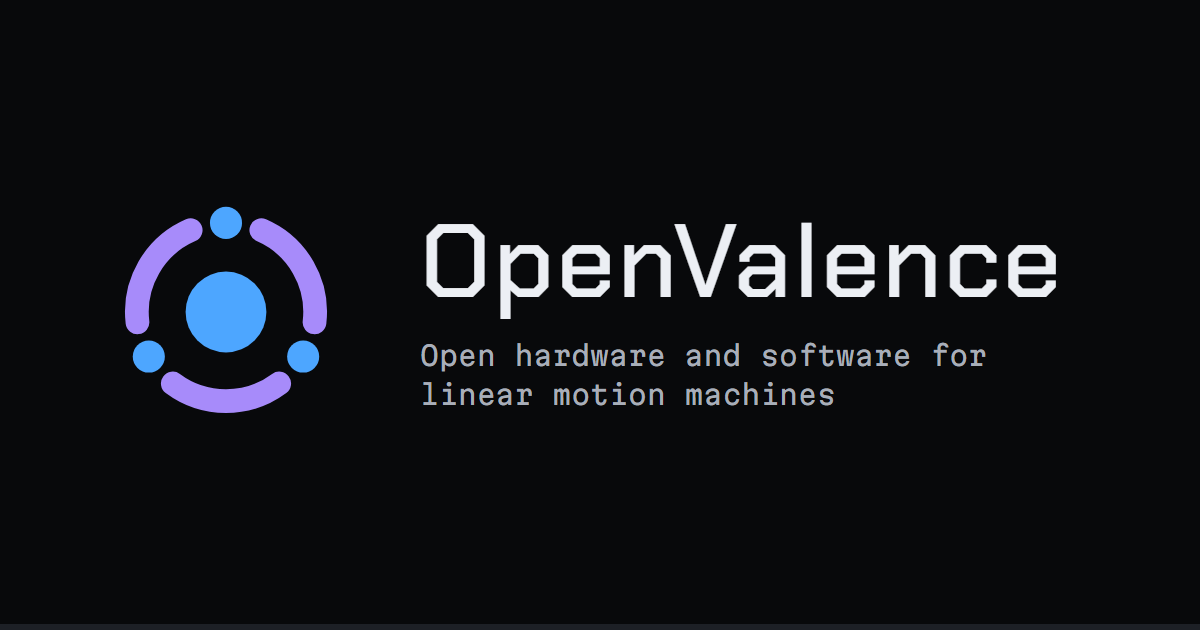
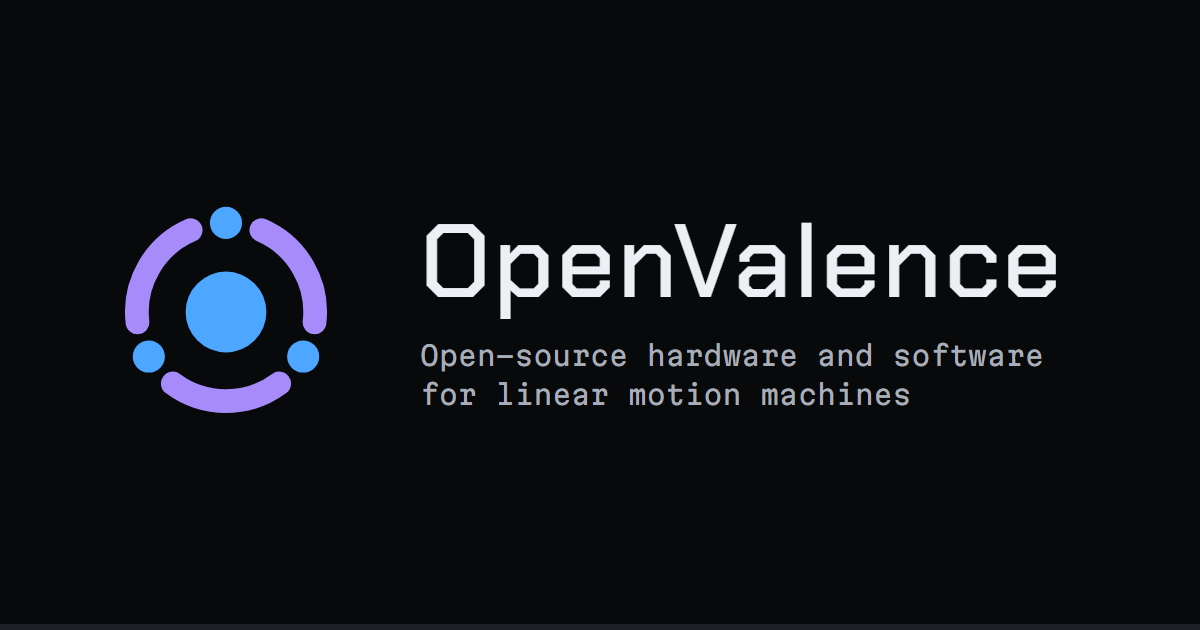
Homepage title and description from the operator; twitter title and description on every page; voice: no 'speaks', open-source not bare Open; social card says Open-source; styles for labeled docs screenshots

Changed region(s): [[0.3392, 0.5429, 0.8633, 0.6635]]

diff --git a/index.html b/index.html
@@ -3,13 +3,15 @@
 <head>
 <meta charset="utf-8">
 <meta name="viewport" content="width=device-width, initial-scale=1">
-<title>OpenValence: open hardware and software for linear motion machines</title>
-<meta name="description" content="Open hardware and software for linear motion machines: a motion controller board, its firmware, the Valence protocol and the Phosphor desktop client. The firmware runs a hub that holds the machine state, and every connected client stays in sync with it.">
+<title>Open Source Software And Hardware For Linear Motion Machines</title>
+<meta name="description" content="Open Source OSSM Flagship PCB, Phosphor app with Buttplug.io support and built in funscript player, Nucleus firmware with Kinetic² Motion.">
 <link rel="canonical" href="https://openvalence.org/">
 <meta property="og:type" content="website">
 <meta property="og:url" content="https://openvalence.org/">
-<meta property="og:title" content="OpenValence">
-<meta property="og:description" content="Open hardware and software for linear motion machines: a motion controller board, its firmware, the Valence protocol and the Phosphor desktop client. The firmware runs a hub that holds the machine state, and every connected client stays in sync with it.">
+<meta property="og:title" content="Open Source Software And Hardware For Linear Motion Machines">
+<meta property="og:description" content="Open Source OSSM Flagship PCB, Phosphor app with Buttplug.io support and built in funscript player, Nucleus firmware with Kinetic² Motion.">
+<meta name="twitter:title" content="Open Source Software And Hardware For Linear Motion Machines">
+<meta name="twitter:description" content="Open Source OSSM Flagship PCB, Phosphor app with Buttplug.io support and built in funscript player, Nucleus firmware with Kinetic² Motion.">
 <!-- chrome:head -->
 <meta name="theme-color" content="#08090B">
 <link rel="icon" href="/favicon.ico" sizes="32x32">
@@ -43,6 +45,7 @@
       "@type": "WebSite",
       "@id": "https://openvalence.org/#site",
       "name": "OpenValence",
+      "alternateName": ["Open Valence", "openvalence.org"],
       "url": "https://openvalence.org/",
       "inLanguage": "en-US",
       "publisher": { "@id": "https://openvalence.org/#org" }
@@ -75,7 +78,7 @@
 <main>
   <section class="opening">
     <p class="kicker">pre-release protocol · spec v1.0-draft</p>
-    <h1>Open hardware and software for linear motion machines</h1>
+    <h1>Open-source hardware and software for linear motion machines</h1>
     <p>For OSSM-style machines and anything else that moves along a rail. The firmware runs a hub that holds the machine's state. The desktop app, browser tabs, scripts and plugins connect to the hub as clients and stay in sync with it. The board, its firmware, the protocol and the client are published under <span class="nb">MIT</span>, <span class="nb">CC BY 4.0</span>, <span class="nb">Apache-2.0</span> and <span class="nb">CERN-OHL-S-2.0</span>.</p>
   </section>
 

diff --git a/phosphor/index.html b/phosphor/index.html
@@ -10,6 +10,8 @@
 <meta property="og:url" content="https://openvalence.org/phosphor/">
 <meta property="og:title" content="Phosphor: OpenValence">
 <meta property="og:description" content="Phosphor is the reference client for Valence machines. Build a dashboard from what your machine reports, add plugins, play funscripts and connect other apps.">
+<meta name="twitter:title" content="Phosphor: OpenValence">
+<meta name="twitter:description" content="Phosphor is the reference client for Valence machines. Build a dashboard from what your machine reports, add plugins, play funscripts and connect other apps.">
 <!-- chrome:head -->
 <meta name="theme-color" content="#08090B">
 <link rel="icon" href="/favicon.ico" sizes="32x32">
@@ -118,7 +120,7 @@
 
     <h3>Buttplug</h3>
     <!-- docs/BUTTPLUG.md lines 12, 32 (127.0.0.1, port 12345), 88-92 (defaults, no start on launch); docs/DESIGN.md §10.8 lines 1067-1085; privacy.html s-network -->
-    <p>The desktop and Android apps embed a Buttplug server, spec v0 to v4, that listens on 127.0.0.1 at port 12345 by default. Only programs on the same computer can reach it. Apps that speak Buttplug see your machine as one linear device and can drive it, and the toys it finds over Bluetooth, serial or HID each get their own module on the Dash. If an app stops or disconnects, the machine holds its last target; only the hub's E-Stop latches.</p>
+    <p>The desktop and Android apps embed a Buttplug server, spec v0 to v4, that listens on 127.0.0.1 at port 12345 by default. Only programs on the same computer can reach it. Apps with Buttplug.io support see your machine as one linear device and can drive it, and the toys it finds over Bluetooth, serial or HID each get their own module on the Dash. If an app stops or disconnects, the machine holds its last target; only the hub's E-Stop latches.</p>
     <p>Starting the server on launch is off by default. The Buttplug pane starts and stops it and shows connected apps, devices and a log. Toys as hub relationships is an open design question <span class="tag">WIP</span>.</p>
 
     <h3>Themes</h3>

diff --git a/hardware/index.html b/hardware/index.html
@@ -10,6 +10,8 @@
 <meta property="og:url" content="https://openvalence.org/hardware/">
 <meta property="og:title" content="Hardware: OpenValence">
 <meta property="og:description" content="The OSSM Flagship is a 58 x 58 mm open-source controller board: ESP32-P4 plus ESP32-C6, quadrature and RS485 to a servo drive. KiCad 10, still in design.">
+<meta name="twitter:title" content="Hardware: OpenValence">
+<meta name="twitter:description" content="The OSSM Flagship is a 58 x 58 mm open-source controller board: ESP32-P4 plus ESP32-C6, quadrature and RS485 to a servo drive. KiCad 10, still in design.">
 <!-- chrome:head -->
 <meta name="theme-color" content="#08090B">
 <link rel="icon" href="/favicon.ico" sizes="32x32">
@@ -100,7 +102,7 @@
   <section aria-labelledby="s-fit">
     <h2 id="s-fit" data-n="05">How it fits</h2>
     <!-- Hardware README.md; Nucleus docs/board-map.md -->
-    <p>The board is the physical end of the system. <a href="/nucleus/">Nucleus</a> is its firmware, and <a href="/Valence/">Valence</a> is the protocol its hub speaks. The <a href="/diagrams/">diagrams</a> show the connections, and <a href="/components/">Components</a> lists every part. The repo also reserves folders for cable drawings, enclosure parts and bench fixtures; they are empty so far.</p>
+    <p>The board is the physical end of the system. <a href="/nucleus/">Nucleus</a> is its firmware, and <a href="/Valence/">Valence</a> is the protocol its hub uses. The <a href="/diagrams/">diagrams</a> show the connections, and <a href="/components/">Components</a> lists every part. The repo also reserves folders for cable drawings, enclosure parts and bench fixtures; they are empty so far.</p>
     <p class="links"><a href="https://github.com/openvalence/Hardware">Repo</a> · <a href="https://github.com/openvalence/Hardware/blob/main/flagship/FEATURES.md">Features</a> · <a href="https://github.com/openvalence/Hardware/blob/main/flagship/SPEC.md">Decisions ledger</a> · <a href="/nucleus/">Nucleus</a> · <a href="/diagrams/">Diagrams</a></p>
   </section>
 </main>

diff --git a/demos/index.html b/demos/index.html
@@ -10,6 +10,8 @@
 <meta property="og:url" content="https://openvalence.org/demos/">
 <meta property="og:title" content="Demos: OpenValence">
 <meta property="og:description" content="Run the Kinetic motion planner in your browser, shape a funscript with Bézier handles, and watch Phosphor drive its built-in Virtual machine. No hardware needed.">
+<meta name="twitter:title" content="Demos: OpenValence">
+<meta name="twitter:description" content="Run the Kinetic motion planner in your browser, shape a funscript with Bézier handles, and watch Phosphor drive its built-in Virtual machine. No hardware needed.">
 <!-- chrome:head -->
 <meta name="theme-color" content="#08090B">
 <link rel="icon" href="/favicon.ico" sizes="32x32">
@@ -76,7 +78,7 @@
       <figcaption id="cap-virtual">Phosphor main 1775961 · connected to the built-in Virtual · Home, speed 55, Advanced pattern running · 1280 × 800, 18 s, recorded headless, no sound</figcaption>
     </figure>
     <!-- Phosphor README.md "Neutrino, the built-in machine (the hub firmware as wasm)"; src/model/integral/ -->
-    <p>The Virtual is the machine's firmware compiled to WebAssembly, running inside Phosphor. It speaks Valence like a real machine, so everything you see in the clip is the real protocol, the real catalog and the real planner, minus the motor.</p>
+    <p>The Virtual is the machine's firmware compiled to WebAssembly, running inside Phosphor. It uses the same Valence protocol as a real machine, so everything you see in the clip is the real protocol, the real catalog and the real planner, minus the motor.</p>
     <p>You get it with Phosphor: connect to "Virtual" in the machine list. Phosphor isn't released yet; see <a href="/downloads/">Downloads</a>.</p>
     <p>A version of this that runs on this website is WIP.</p>
   </section>

diff --git a/phosphor/docs/connecting/index.html b/phosphor/docs/connecting/index.html
@@ -10,6 +10,8 @@
 <meta property="og:url" content="https://openvalence.org/phosphor/docs/connecting/">
 <meta property="og:title" content="Connecting: OpenValence">
 <meta property="og:description" content="Connect Phosphor to a machine: discovery, Bluetooth setup, the watch, control and configure access tiers, the Pair button, and what E-Stop does.">
+<meta name="twitter:title" content="Connecting: OpenValence">
+<meta name="twitter:description" content="Connect Phosphor to a machine: discovery, Bluetooth setup, the watch, control and configure access tiers, the Pair button, and what E-Stop does.">
 <!-- chrome:head -->
 <meta name="theme-color" content="#08090B">
 <link rel="icon" href="/favicon.ico" sizes="32x32">
@@ -88,7 +90,7 @@
     <!-- Valence SPEC §12.2 (ratified), §11.1, §11.2; src/ui/PairingPane.svelte:306 (This session), 202-205 (Needs configure) -->
     <p>Every session has one of three tiers. The Pairing page shows yours under "This session".</p>
     <dl class="terms">
-      <div><dt>watch</dt><dd>Connect, browse and subscribe. Open by default.</dd></div>
+      <div><dt>watch</dt><dd>Connect, browse and subscribe. No pairing needed.</dd></div>
       <div><dt>control</dt><dd>Send intents and streams, and drive motion.</dd></div>
       <div><dt>configure</dt><dd>Change configuration and administer access: approve or deny pairing, revoke and evict.</dd></div>
     </dl>

diff --git a/phosphor/docs/funscript-player/index.html b/phosphor/docs/funscript-player/index.html
@@ -10,6 +10,8 @@
 <meta property="og:url" content="https://openvalence.org/phosphor/docs/funscript-player/">
 <meta property="og:title" content="Funscript player: OpenValence">
 <meta property="og:description" content="How Phosphor's funscript player works: load a video and script, set scale and offset, connect Stash, read the analyzer and play a script on the machine.">
+<meta name="twitter:title" content="Funscript player: OpenValence">
+<meta name="twitter:description" content="How Phosphor's funscript player works: load a video and script, set scale and offset, connect Stash, read the analyzer and play a script on the machine.">
 <!-- chrome:head -->
 <meta name="theme-color" content="#08090B">
 <link rel="icon" href="/favicon.ico" sizes="32x32">

diff --git a/phosphor/docs/troubleshooting/index.html b/phosphor/docs/troubleshooting/index.html
@@ -10,6 +10,8 @@
 <meta property="og:url" content="https://openvalence.org/phosphor/docs/troubleshooting/">
 <meta property="og:title" content="Troubleshooting: OpenValence">
 <meta property="og:description" content="What Phosphor's status and health lines mean and what to do about them: finding a machine, pairing, stutter and pauses, the log file, and platform notes.">
+<meta name="twitter:title" content="Troubleshooting: OpenValence">
+<meta name="twitter:description" content="What Phosphor's status and health lines mean and what to do about them: finding a machine, pairing, stutter and pauses, the log file, and platform notes.">
 <!-- chrome:head -->
 <meta name="theme-color" content="#08090B">
 <link rel="icon" href="/favicon.ico" sizes="32x32">

diff --git a/phosphor/docs/node-editor/index.html b/phosphor/docs/node-editor/index.html
@@ -10,6 +10,8 @@
 <meta property="og:url" content="https://openvalence.org/phosphor/docs/node-editor/">
 <meta property="og:title" content="Node editor: OpenValence">
 <meta property="og:description" content="Phosphor's node editor: wire machine settings and toys through math, logic and smoothing nodes, and see which chains run on the hub and which run in the app.">
+<meta name="twitter:title" content="Node editor: OpenValence">
+<meta name="twitter:description" content="Phosphor's node editor: wire machine settings and toys through math, logic and smoothing nodes, and see which chains run on the hub and which run in the app.">
 <!-- chrome:head -->
 <meta name="theme-color" content="#08090B">
 <link rel="icon" href="/favicon.ico" sizes="32x32">

diff --git a/phosphor/docs/getting-started/index.html b/phosphor/docs/getting-started/index.html
@@ -10,6 +10,8 @@
 <meta property="og:url" content="https://openvalence.org/phosphor/docs/getting-started/">
 <meta property="og:title" content="Getting started: OpenValence">
 <meta property="og:description" content="Install Phosphor, launch it, try the built-in Virtual machine with no hardware, then find a real machine. Includes a short tour of the main screens.">
+<meta name="twitter:title" content="Getting started: OpenValence">
+<meta name="twitter:description" content="Install Phosphor, launch it, try the built-in Virtual machine with no hardware, then find a real machine. Includes a short tour of the main screens.">
 <!-- chrome:head -->
 <meta name="theme-color" content="#08090B">
 <link rel="icon" href="/favicon.ico" sizes="32x32">

diff --git a/style.css b/style.css
@@ -361,3 +361,11 @@ h3 {
 main code { overflow-wrap: anywhere; }
 main pre { max-width: 100%; overflow-x: auto; padding: 10px 12px; background: var(--bg-sunken); border: 1px solid var(--line-1); border-radius: var(--radius); }
 main pre code { overflow-wrap: normal; }
+
+/* ---- labeled app screenshots in the docs ---- */
+.docshot { margin: 8px 0 24px; }
+.docshot img { display: block; width: 100%; height: auto; border: 1px solid var(--line-1); border-radius: var(--radius); background: var(--bg-sunken); }
+.docshot figcaption { margin-top: 10px; }
+.legend { margin: 0; padding-left: 1.6em; font-size: .95rem; color: var(--tx); }
+.legend li { margin-bottom: 2px; }
+.legend li::marker { font: 400 .72rem var(--mono); color: var(--reality); }

diff --git a/phosphor/docs/plugins/index.html b/phosphor/docs/plugins/index.html
@@ -10,6 +10,8 @@
 <meta property="og:url" content="https://openvalence.org/phosphor/docs/plugins/">
 <meta property="og:title" content="Plugins: OpenValence">
 <meta property="og:description" content="Phosphor plugins: what they can do, the five that ship with the app, how permissions and the one-source motion lock work, and where plugin developers start.">
+<meta name="twitter:title" content="Plugins: OpenValence">
+<meta name="twitter:description" content="Phosphor plugins: what they can do, the five that ship with the app, how permissions and the one-source motion lock work, and where plugin developers start.">
 <!-- chrome:head -->
 <meta name="theme-color" content="#08090B">
 <link rel="icon" href="/favicon.ico" sizes="32x32">

diff --git a/downloads/index.html b/downloads/index.html
@@ -10,6 +10,8 @@
 <meta property="og:url" content="https://openvalence.org/downloads/">
 <meta property="og:title" content="Downloads: OpenValence">
 <meta property="og:description" content="Phosphor and Nucleus downloads. Nothing is released yet: builds come from CI, and the first release will appear on GitHub Releases. Here's what it will hold.">
+<meta name="twitter:title" content="Downloads: OpenValence">
+<meta name="twitter:description" content="Phosphor and Nucleus downloads. Nothing is released yet: builds come from CI, and the first release will appear on GitHub Releases. Here's what it will hold.">
 <!-- chrome:head -->
 <meta name="theme-color" content="#08090B">
 <link rel="icon" href="/favicon.ico" sizes="32x32">
